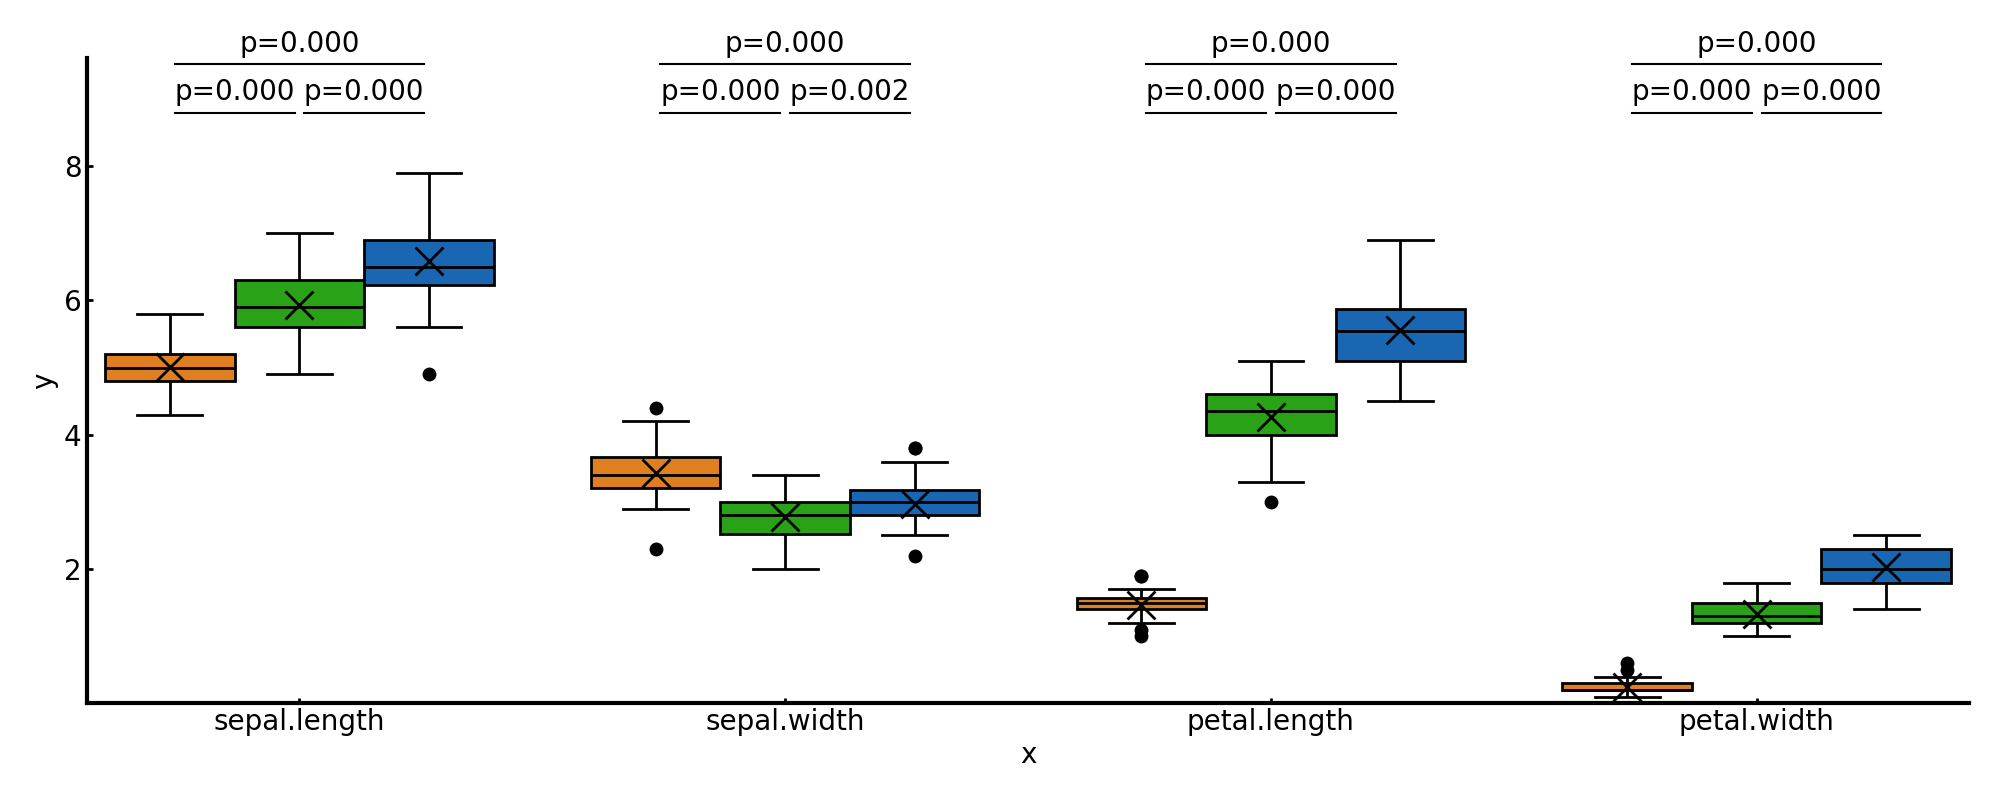
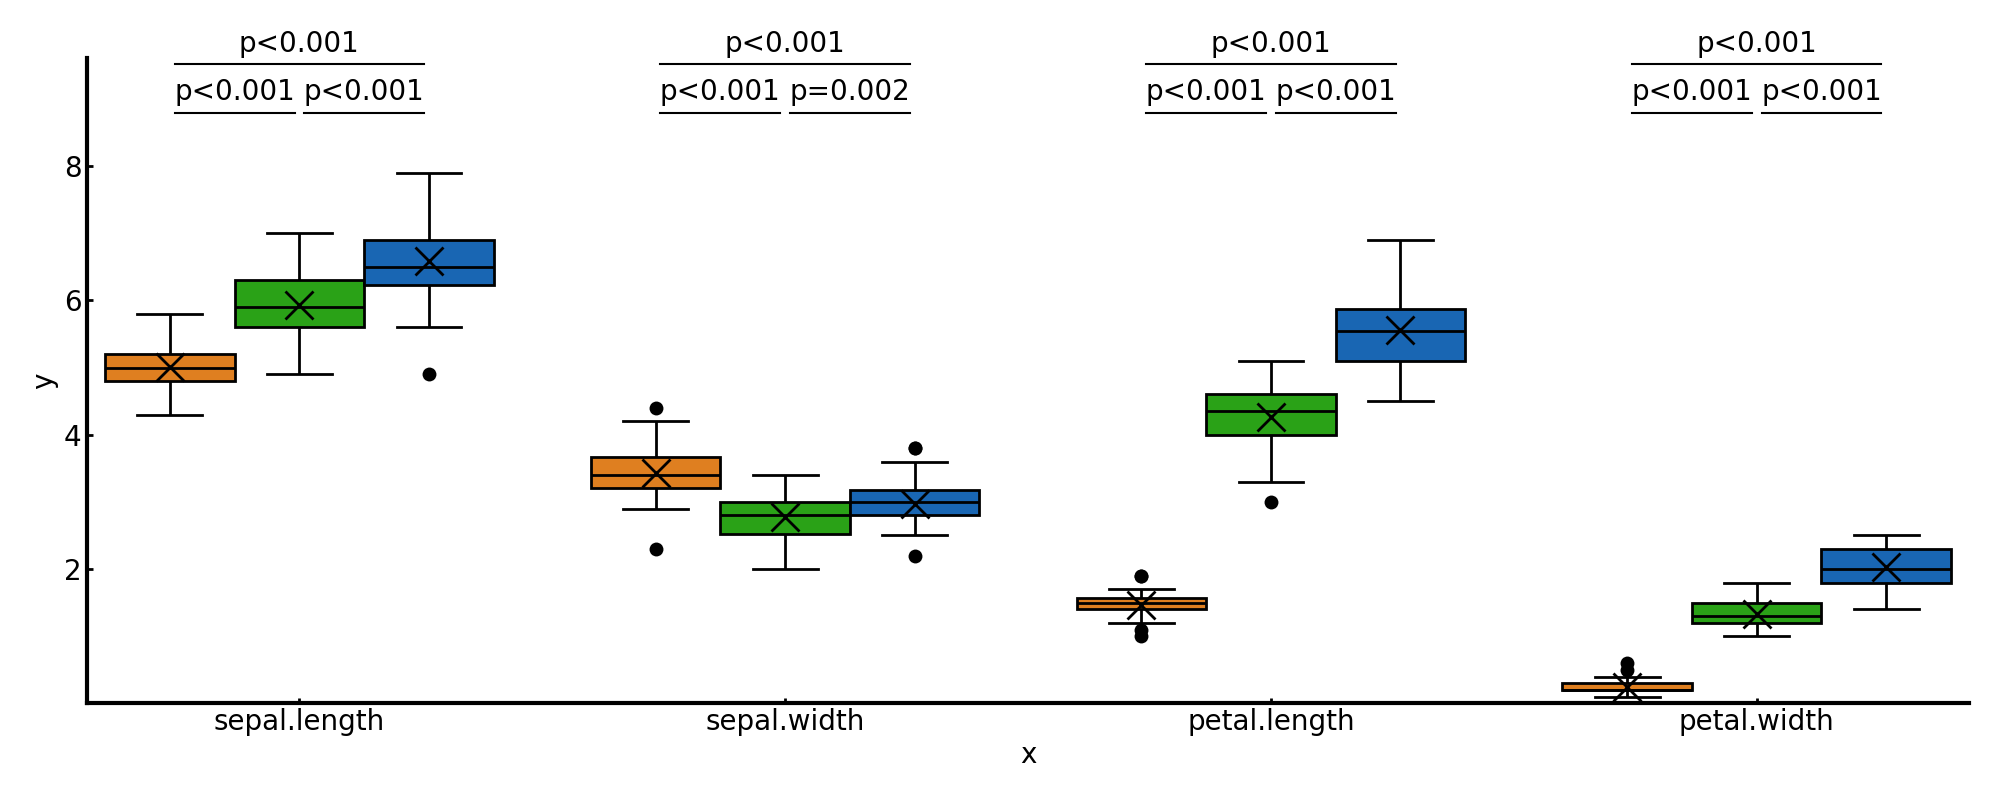
Update README

diff --git a/plot.py b/plot.py
@@ -55,7 +55,7 @@ class Stat:
         if self.adjust_name is None:
             l_p_mark = []
             if self.stat_mark is None:
-                l_p_mark = [f"p={p:.3f}" for p in l_p]
+                l_p_mark = [f"p={p:.3f}" if p >= 0.001 else f"p<0.001" for p in l_p]
             else:
                 for p in l_p:
                     l_p_mark.append(lookup_p(p, self.stat_mark))
@@ -399,10 +399,6 @@ class PLOT:
         C5 = ["#010066", "#19B900", "#333333", "#ff7f00", "#e41a1c"]
         return eval(name)
 
-
-
-
-
 if __name__ == "__main__":
     df = pd.read_csv("https://raw.githubusercontent.com/yoriku/tmp_csv/main/kadai.csv")
 
@@ -412,4 +408,3 @@ if __name__ == "__main__":
     color = plot.get_color("C3")
 
     plot.bar(df, "test", hue="target", color=color)
-

diff --git a/README.md b/README.md
@@ -43,7 +43,12 @@ box(df, filename, figsize=None, kind="|",
 | `color`    | Option   | BOXの色。`hue=None` の時は1つの色コードを指定したリストを、`hue` が持つ変数の数分の色コードを指定したリストを渡す。デフォルトでは `hue=2` の場合に使用可能<br>Color of the box. If `hue=None`, provide a list of one color code. Otherwise, provide a list of color codes corresponding to the number of hue variables. By default, it works for `hue=2`. |
 | `y_const`  | Option   | 基準となる横線を引くときに基準値の数値を指定<br>Specify a numeric value for drawing a reference horizontal line                                                                                                                                                                                                                                           |
 | `yticks`   | Option   | y軸のメモリのリストを指定（例: `[0,1,2]`）<br>List of y-axis ticks (e.g., `[0,1,2]`)                                                                                                                                                                                                                                                                      |
-| `rotation` | Option   | X軸のメモリラベルの角度<br>Rotation angle for x-axis tick labels                                                                                                                                                                                                                                                                                          |
+| `rotation` | Option   | X軸のメモリラベルの角度<br>Rotation angle for x-axis tick labels |
+|`stats`|Option  |`stat_name`は検定の名前`brunnermunzel`と`welch`をサポート  
+`stat_mark`は星の形状の定義．デフォルトは`*`であり，Noneを指定するとp値がそのまま表示される  
+`adjust_name`は多重比較の方法を定義，有名どころでは，`bonferroni`，`holm`，`fdr_bh`などが可能|
+
+
 
 #### Exaple figures
 ~~~ Python
@@ -93,7 +98,10 @@ bar(df, filename, figsize=None,
 | `y_const`  | Option   | 基準となる横線を引くときに基準値の数値を指定<br>Specify a numeric value for drawing a reference horizontal line                                                                                                                                                                                                                                           |
 | `xticks`   | Option   | x軸のメモリのリストを指定（例: `[0,1,2]`）<br>List of x-axis ticks (e.g., `[0,1,2]`)                                                                                                                                                                                                                                                                      |
 | `yticks`   | Option   | y軸のメモリのリストを指定（例: `[0,1,2]`）<br>List of y-axis ticks (e.g., `[0,1,2]`)                                                                                                                                                                                                                                                                      |
-| `rotation` | Option   | X軸のメモリラベルの角度<br>Rotation angle for x-axis tick labels                                                                                                                                                                                                                                                                                          |
+| `rotation` | Option   | X軸のメモリラベルの角度<br>Rotation angle for x-axis tick labels  |
+|`stats`|Option  |`stat_name`は検定の名前`brunnermunzel`と`welch`をサポート  
+`stat_mark`は星の形状の定義．デフォルトは`*`であり，Noneを指定するとp値がそのまま表示される  
+`adjust_name`は多重比較の方法を定義，有名どころでは，`bonferroni`，`holm`，`fdr_bh`などが可能|
 
 #### Exaple figures
 ~~~ Python
